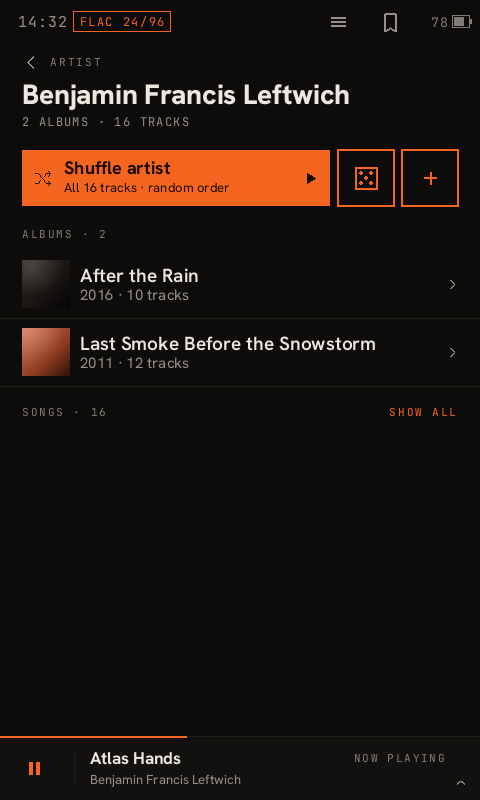
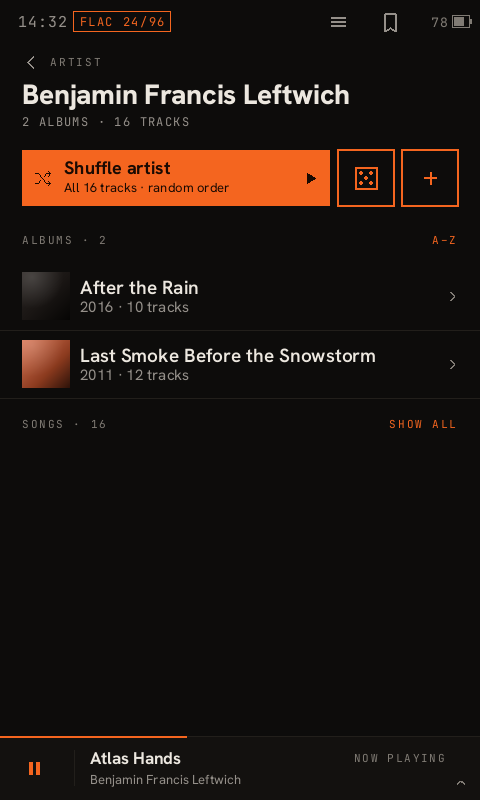
release: prepare v0.4.5-rc3

diff --git a/player/cinder-ui/src/settings.rs b/player/cinder-ui/src/settings.rs
@@ -348,7 +348,7 @@ pub const BT_IDLE_OFF_SUB: &str = "Sleeps after 10 min idle, wakes on use";
 // One line, and rustfmt must leave it so: `tools/release.sh` finds and rewrites it by its shape.
 #[macro_export]
 #[rustfmt::skip]
-macro_rules! cinder_version { () => { "0.4.5-rc2" } }
+macro_rules! cinder_version { () => { "0.4.5-rc3" } }
 
 /// Firmware/build label shown on the Settings "Firmware" row. The `dev` feature (development
 /// channel, built from the same tree) makes the two builds visually distinguishable on-device.

diff --git a/CHANGELOG.md b/CHANGELOG.md
@@ -16,12 +16,6 @@ level the commit history supports; from `v0.1.6` onward, entries are written as 
 
 ## [Unreleased]
 
-### Changed
-
-- **An artist's albums are in plain A–Z order by default, and you can pick another** (#61). Tap the
-  order at the right of the ALBUMS header to switch between A–Z, newest first and oldest first;
-  the choice is remembered. rc2 listed the newest year first, then titles.
-
 ## [0.4.5] — 2026-11-25
 
 ### Fixed
@@ -45,6 +39,9 @@ level the commit history supports; from `v0.1.6` onward, entries are written as 
 
 ### Changed
 
+- **An artist's albums are in plain A–Z order by default, and you can pick another** (#61). Tap the
+  order at the right of the ALBUMS header to switch between A–Z, newest first and oldest first;
+  the choice is remembered. rc2 listed the newest year first, then titles.
 - **Big view is the default.** A first start, or a settings file from before the switch existed,
   opens in Big view. A saved choice is kept, so a player set to the normal size stays that way.
 
